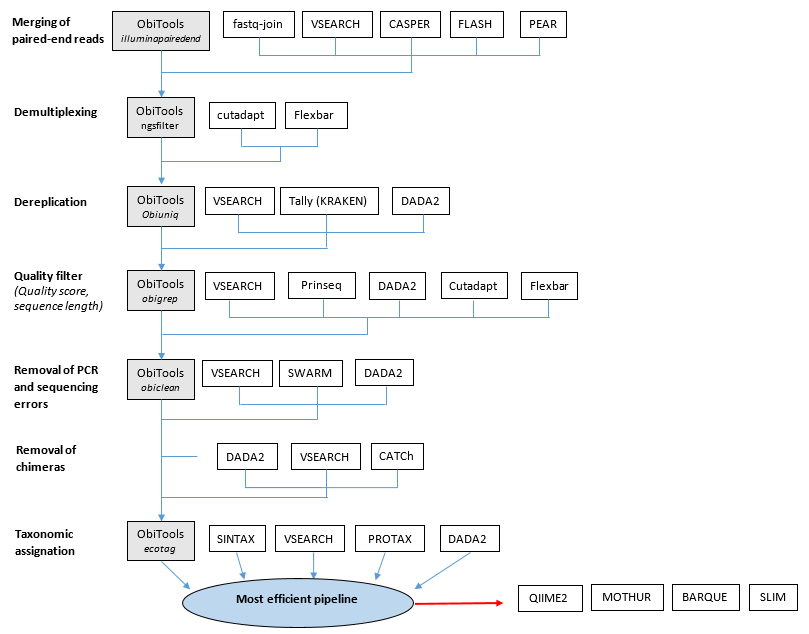
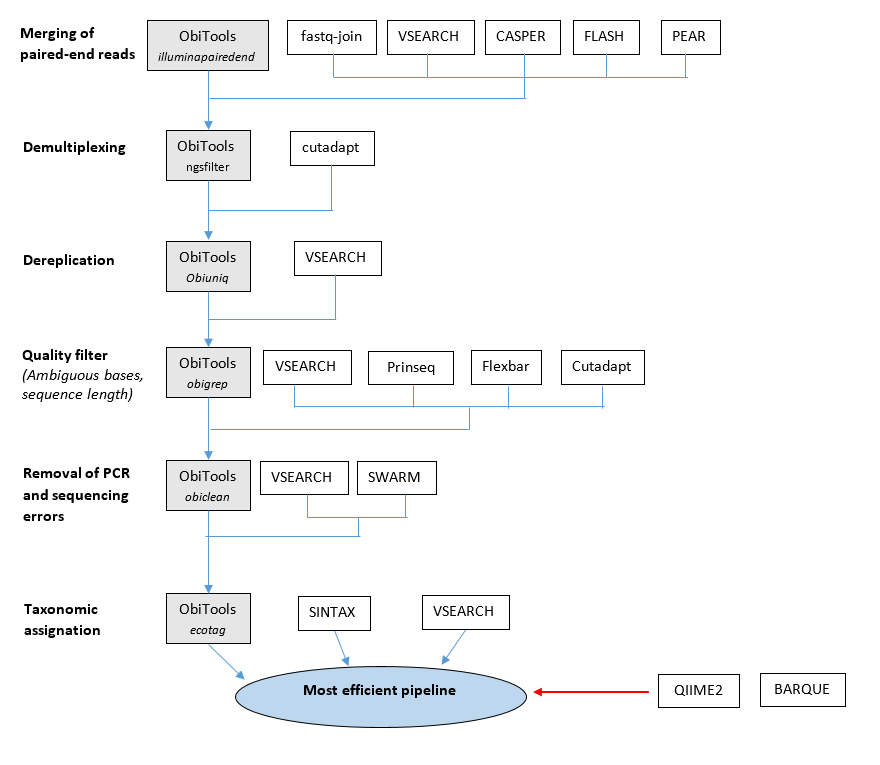
update readme

diff --git a/README.md b/README.md
@@ -9,9 +9,9 @@ For each of these steps, different programs to compare were identified, as shown
 
 ![pipeline_schema](schema_protocole.PNG)
 
-For each step, all the programs are compared, while the start and the end of the pipeline are standardized with a reference pipeline ([Script_obitools_reference.sh](Script_obitools_reference.sh)). This pipeline is based on [ObiTools](https://git.metabarcoding.org/obitools/obitools/wikis/home), a set of python programs designed to analyse Next Generation Sequencer outputs (illumina) in the context of DNA Metabarcoding.
+For each step, all the programs are compared, while the start and the end of the pipeline are standardized with a reference pipeline ([obitools_reference](obitools_reference/total_obitools.sh)). This pipeline is based on [Obitools](https://git.metabarcoding.org/obitools/obitools/wikis/home), a set of python programs designed to analyse Next Generation Sequencer outputs (illumina) in the context of DNA Metabarcoding.
 
-The optimal pipeline obtained will be again compared to existant complete pipelines (QIIME2, Mothur, BARQUE, DADA2 and SLIM).
+The optimal pipeline obtained will be again compared to existant complete pipelines (QIIME2 and BARQUE).
 
 # Dependencies
 
@@ -26,9 +26,9 @@ The optimal pipeline obtained will be again compared to existant complete pipeli
 
 ## Install from source code
 
-To install all the programs used in this study, please follow the instructions on their installation pages : [ObiTools](https://pythonhosted.org/OBITools/welcome.html#installing-the-obitools), [VSEARCH](https://github.com/torognes/vsearch), [PEAR](http://www.exelixis-lab.org/web/software/pear), [FLASH](https://sourceforge.net/projects/flashpage/files), [CASPER](http://best.snu.ac.kr/casper/index.php?name=manual), [fastq-join](https://github.com/brwnj/fastq-join), [cutadapt](https://cutadapt.readthedocs.io/en/stable/installation.html), [Flexbar](https://github.com/seqan/flexbar), [Tally](https://www.ebi.ac.uk/research/enright/software/kraken), [DADA2](https://benjjneb.github.io/dada2/dada-installation.html), [Prinseq](https://sourceforge.net/projects/prinseq/files/), [CATCh](https://github.com/M-Mysara/CATCh), [SWARM](https://github.com/torognes/swarm), [SINTAX](https://www.drive5.com/usearch/manual/cmd_sintax.html) and [PROTAX](https://www.helsinki.fi/en/researchgroups/statistical-ecology/software#section-49869).
+To install all the programs used in this study, please follow the instructions on their installation pages : [ObiTools](https://pythonhosted.org/OBITools/welcome.html#installing-the-obitools), [VSEARCH](https://github.com/torognes/vsearch), [PEAR](http://www.exelixis-lab.org/web/software/pear), [FLASH](https://sourceforge.net/projects/flashpage/files), [CASPER](http://best.snu.ac.kr/casper/index.php?name=manual), [fastq-join](https://github.com/brwnj/fastq-join), [cutadapt](https://cutadapt.readthedocs.io/en/stable/installation.html), [Prinseq](https://sourceforge.net/projects/prinseq/files/)), [SWARM](https://github.com/torognes/swarm) and [SINTAX](https://www.drive5.com/usearch/manual/cmd_sintax.html).
 
-The installation guidelines for the complete pipelines can be found here : [QIIME2](https://docs.qiime2.org/2019.4/install), [MOTHUR](https://github.com/mothur/mothur), [BARQUE](https://github.com/enormandeau/barque) and [SLIM](https://github.com/yoann-dufresne/SLIM).
+The installation guidelines for the complete pipelines can be found here : [QIIME2](https://docs.qiime2.org/2019.4/install) and [BARQUE](https://github.com/enormandeau/barque).
 
 ## Singularity containers
 
@@ -64,7 +64,7 @@ bash 99_utils/mega_download/download_input_data.sh
 ```
 The `forward_reverse_reads` folder will be created at [00_Input_data/forward_reverse_reads](00_Input_data).
 
-The reference database needed for the taxonomic assignment step is also stored on MEGA and will be downloaded at the same time as teh input FASTQ files. The `reference_database` folder will be created at [00_Input_data/reference_database](00_Input_data) :
+The reference database needed for the taxonomic assignment step is also stored on MEGA and will be downloaded at the same time as the input FASTQ files. The `reference_database` folder will be created at [00_Input_data/reference_database](00_Input_data) :
 
 
 ## Sample description file
@@ -75,11 +75,11 @@ The sample description file, containing the primers and the tags associated to e
 
 Thanks to the simulated dataset, we know exactly the relative abundance of each species in each sample and replicate. These data can be found here [species_abundance_per_sample](grinder_simulations/Outputs/species_abundance_per_sample) and will be compared to the output of each pipeline tested to assess their efficiency.
 
-(Note that the input FASTQ files and the abundance data will change each time you run a grinder simulations. The files given here correspond to the grinder simulation made to obtain the data for our program comparison)
+(Note that the input FASTQ files and the abundance data will change each time you run a grinder simulation. The files given here correspond to the grinder simulation made to obtain the data for our program comparison)
   
 # Performance measures
 
-To assess the efficiency of each program, we measure the time, % of CPU used and the memory used (among other metrics).
+To assess the efficiency of each program, we measure the execution time (among other metrics).
 
 Each time you test a different program for a given analysis step, you can record the time, memory usage, and CPU usage of this command by running `time` in front of the command :
 
@@ -94,18 +94,17 @@ where :
 
 %elapsed = time in hours:minutes:seconds
 
-%CPU = percentage of CPU given to the job
 
-%max = maximum memory used by the job in Kbytes.
+Other performance metrics will be calculated for each pipeline tested : sensitivity and F-measure index will be calculated from the number of true positive, false positive and false negative outputted by each pipeline. 
+Relative abundances outputted by each pipeline are compared to the expected abundances ([species_abundance_per_sample](00_Input_data/species_abundance_per_sample)).
 
-Or you can run [record_memory_usage.sh](99_utils/record_memory_usage.sh) that records the memory usage of the job :
+To run any script, run this command line :
 
 ```
-bash 99_utils/record_memory_usage.sh PID NUMBER_ITER TABLE_MEM
+bash 99_utils/submitjob_sge_cluster/bash2sge.sh SCRIPT.sh
+qsub
 ```
 
-Other performance metrics will be calculated for each pipeline tested : accuracy and F-measure index will be calculated from the number of true positive, false positive and false negative outputted by each pipeline. 
-Relative abundances outputted by each pipeline are compared to the expected abundances ([species_abundance_per_sample](grinder_simulations/Outputs/species_abundance_per_sample)).
 
 # Analysis steps
 
@@ -164,4 +163,8 @@ For example, to find the results of the pipeline testing the program flash for m
 
 ## Time and memory reports
 
-Time and memory reports for each program compared are stored in the folder containing the scripts.
+Time reports for each program compared are stored [here](99_utils/submitjob_sge_cluster/qsub_outputs).
+
+# Optimal pipeline
+
+The optimal pipeline built with the most performant program from each step is [here](optimal_pipeline/optimal_pipeline.sh)
